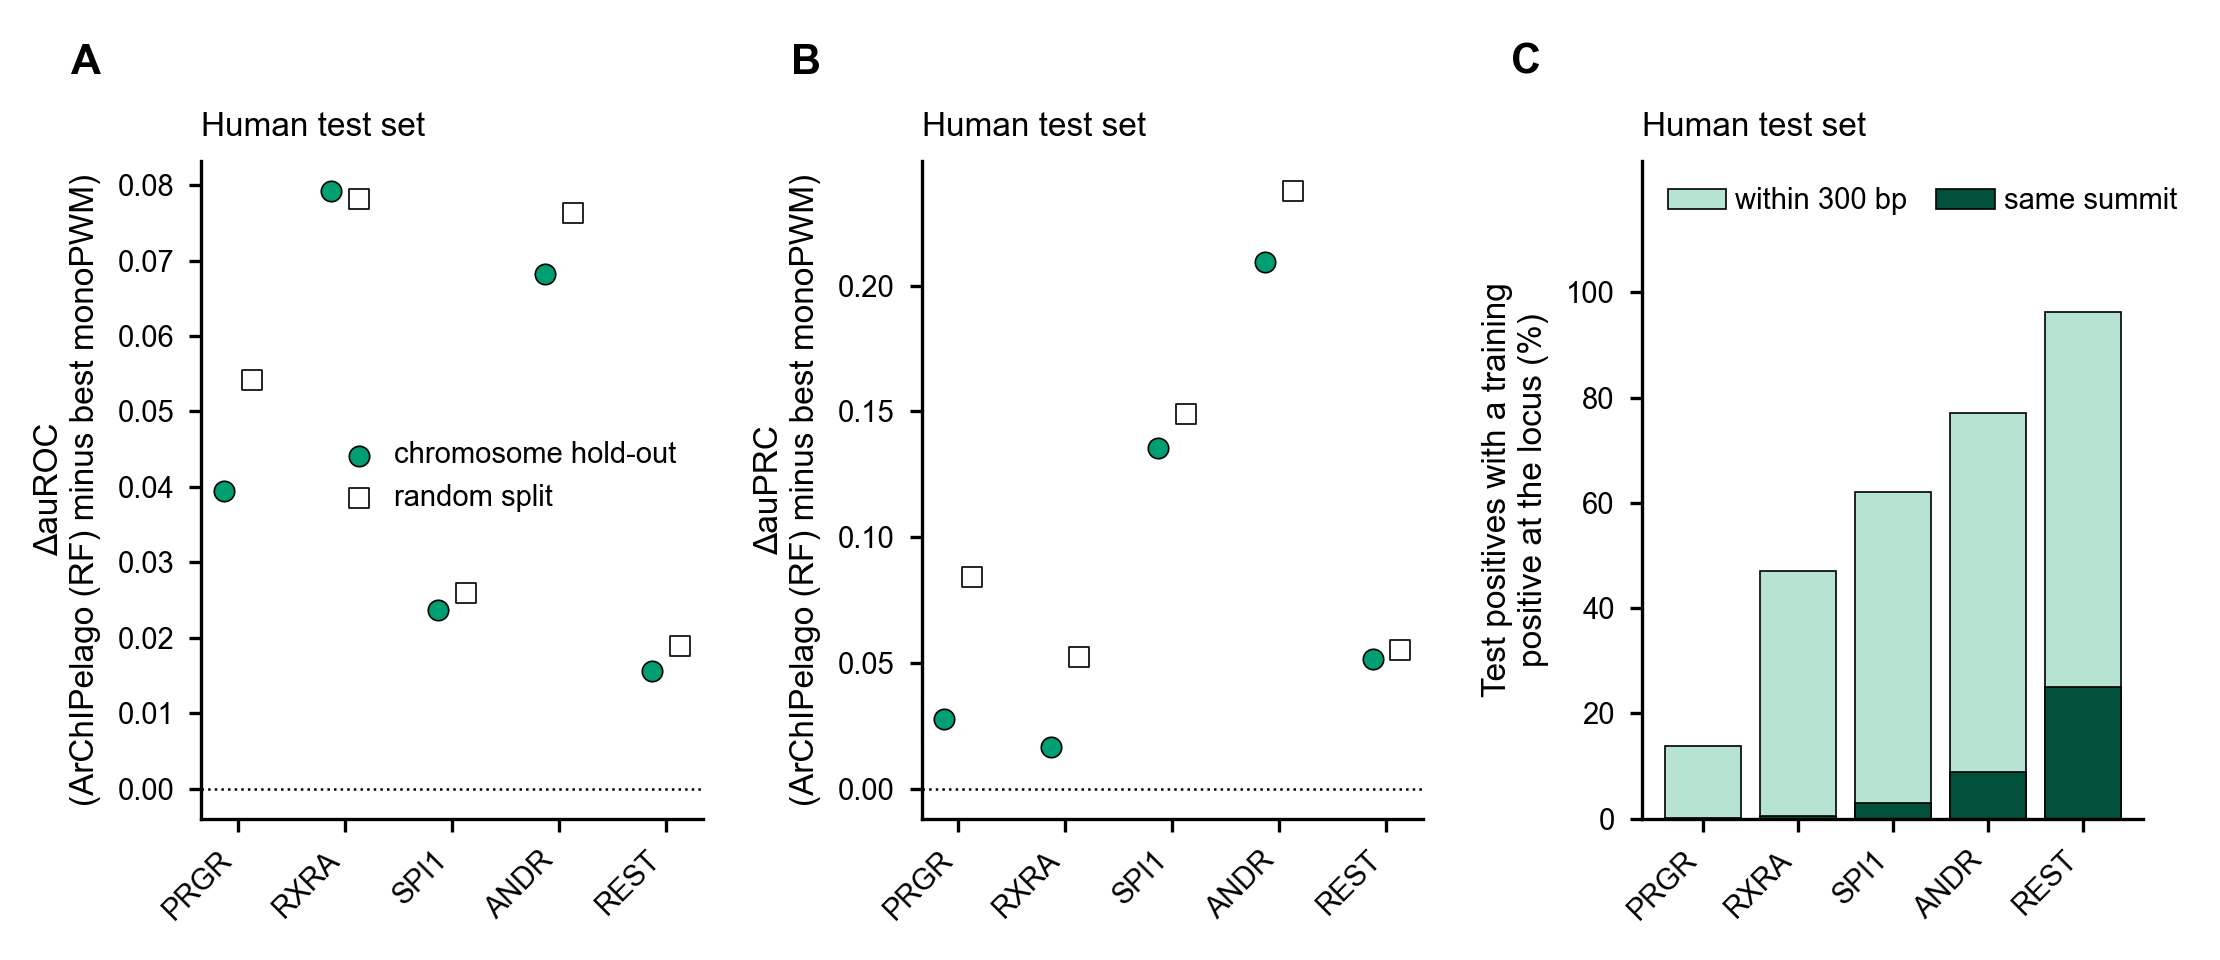
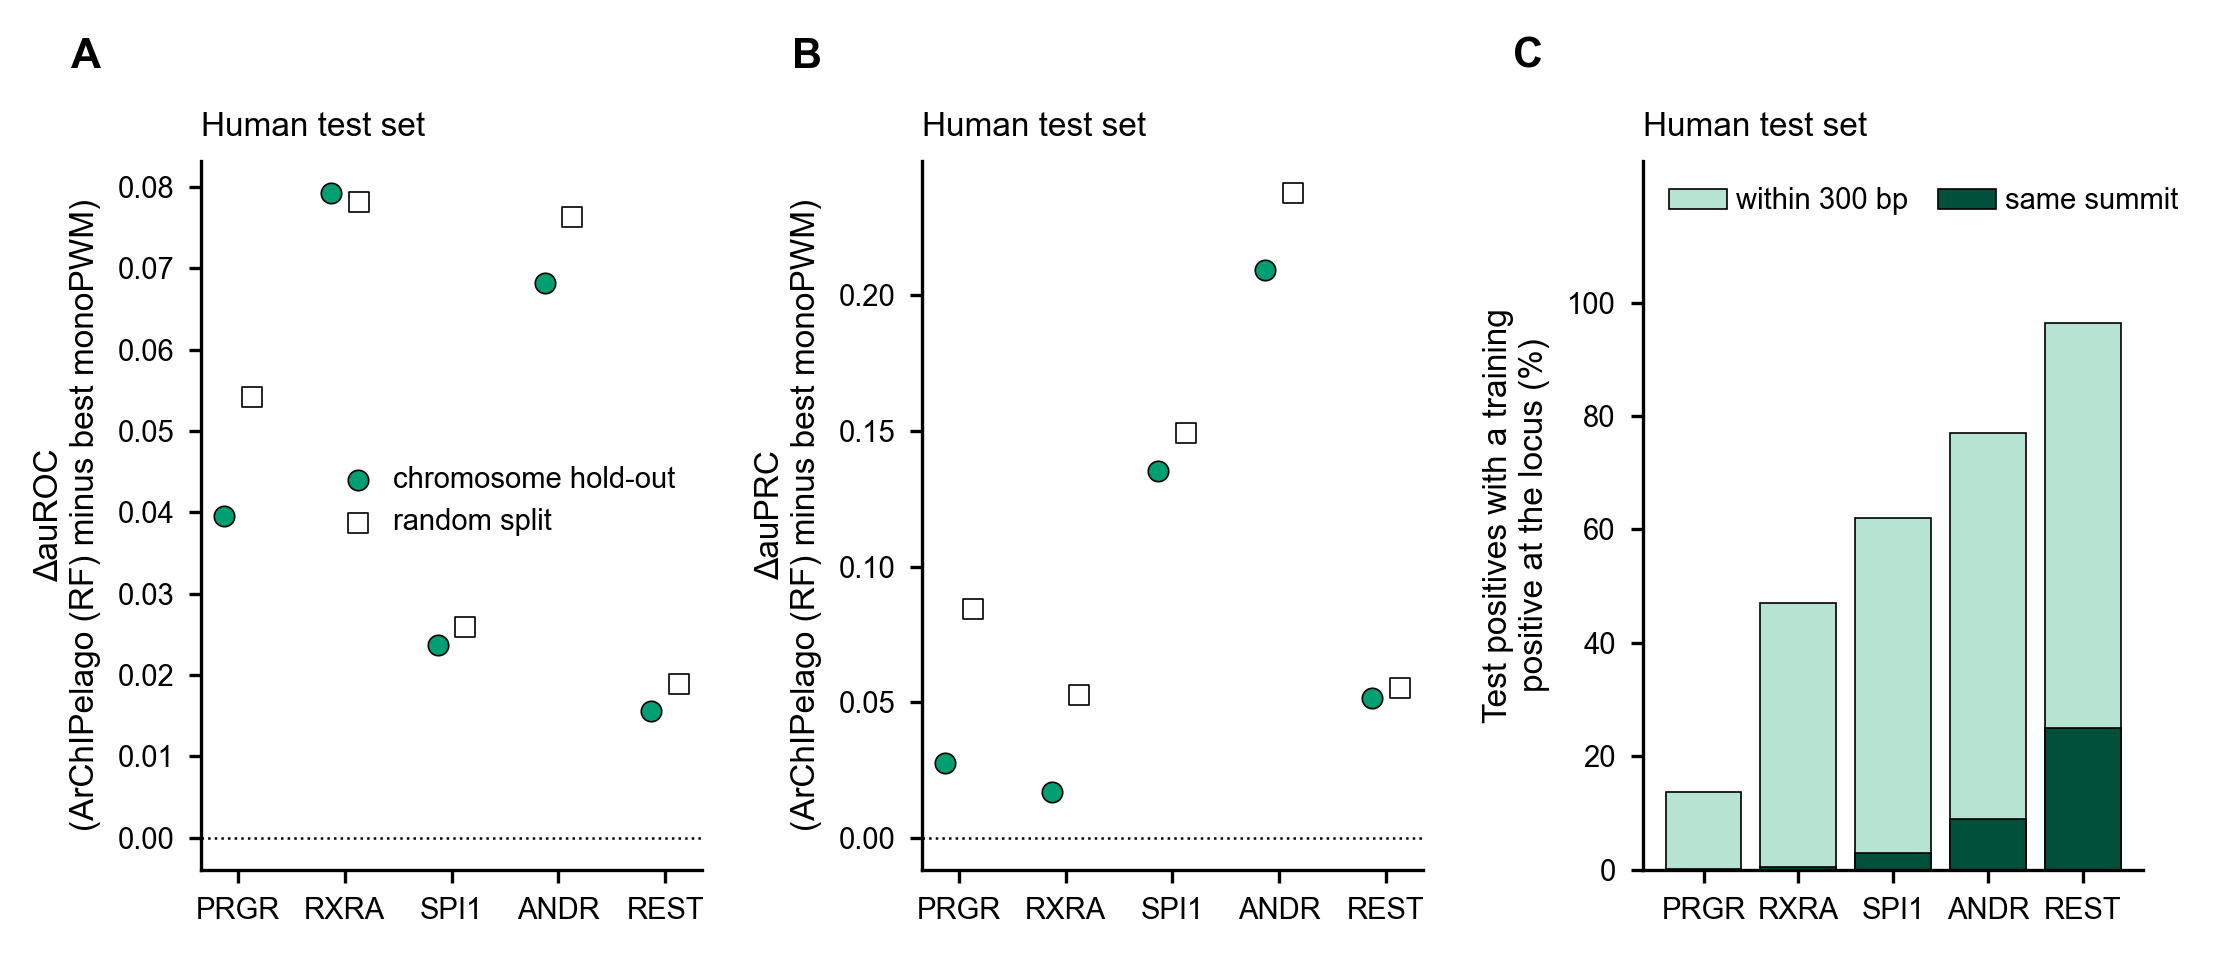
Fig. S12: horizontal tick labels
Figure_S12.py drew the TF names on the x axes of all three panels at 45 degrees; they are now horizontal (the five
four-letter names fit). Figure regenerated (Python 3.9.12, matplotlib 3.5.2, the versions of the published render).

Verification: b9_summary.csv and b9_random_split_per_fit.csv unchanged (md5 1ee6bca9, 8b747b29); the script's own
checks passed (5 TFs, P53 absent, summary equal to the H3b table, max |diff| 0); PNG inspected: no label overlaps.
Not verified: overlap by a bounding-box test.

diff --git a/4_visualisation/supplementary_figures/Figure_S12/Figure_S12.py b/4_visualisation/supplementary_figures/Figure_S12/Figure_S12.py
@@ -49,7 +49,7 @@ for k, (col, lab) in enumerate([("gain_auroc", "ΔauROC\n(ArChIPelago (RF) minus
         v = m[m.split == sp].set_index("TF").loc[order, col]
         a.scatter(x + dx, v, marker=mk, s=24, facecolor=c, edgecolor="black", linewidth=0.4, zorder=3,
                   label="chromosome hold-out" if sp == "chromosome" else "random split")
-    a.axhline(0, color="black", lw=0.6, ls=":"); a.set_xticks(x); a.set_xticklabels(order, rotation=45, ha="right")
+    a.axhline(0, color="black", lw=0.6, ls=":"); a.set_xticks(x); a.set_xticklabels(order)
     a.set_ylabel(lab); a.text(-0.26, 1.12, "AB"[k], transform=a.transAxes, fontweight="bold", fontsize=10, va="bottom"); a.set_title("Human test set", loc="left", pad=6)
     a.spines[["top", "right"]].set_visible(False)
 ax[0].legend(frameon=False, loc="center right", bbox_to_anchor=(1.0, 0.52), handletextpad=0.2)
@@ -57,7 +57,7 @@ v = m[m.split == "random"].set_index("TF").loc[order]
 x = np.arange(len(order))
 ax[2].bar(x, 100 * v.frac_test_pos_overlap, color="#B7E3D3", edgecolor="black", lw=0.4, label="within 300 bp")
 ax[2].bar(x, 100 * v.frac_test_pos_exact, color="#00503B", edgecolor="black", lw=0.4, label="same summit")
-ax[2].set_xticks(x); ax[2].set_xticklabels(order, rotation=45, ha="right")
+ax[2].set_xticks(x); ax[2].set_xticklabels(order)
 ax[2].set_ylabel("Test positives with a training\npositive at the locus (%)"); ax[2].set_ylim(0, 125); ax[2].set_yticks([0, 20, 40, 60, 80, 100]); ax[2].legend(frameon=False, loc="upper left", ncol=2, handletextpad=0.3, columnspacing=1.0)
 ax[2].text(-0.26, 1.12, "C", transform=ax[2].transAxes, fontweight="bold", fontsize=10, va="bottom"); ax[2].set_title("Human test set", loc="left", pad=6); ax[2].spines[["top", "right"]].set_visible(False)
 fig.tight_layout(w_pad=1.6); AS.save_both(fig, os.path.join(FIG, "Figure_S12"))
